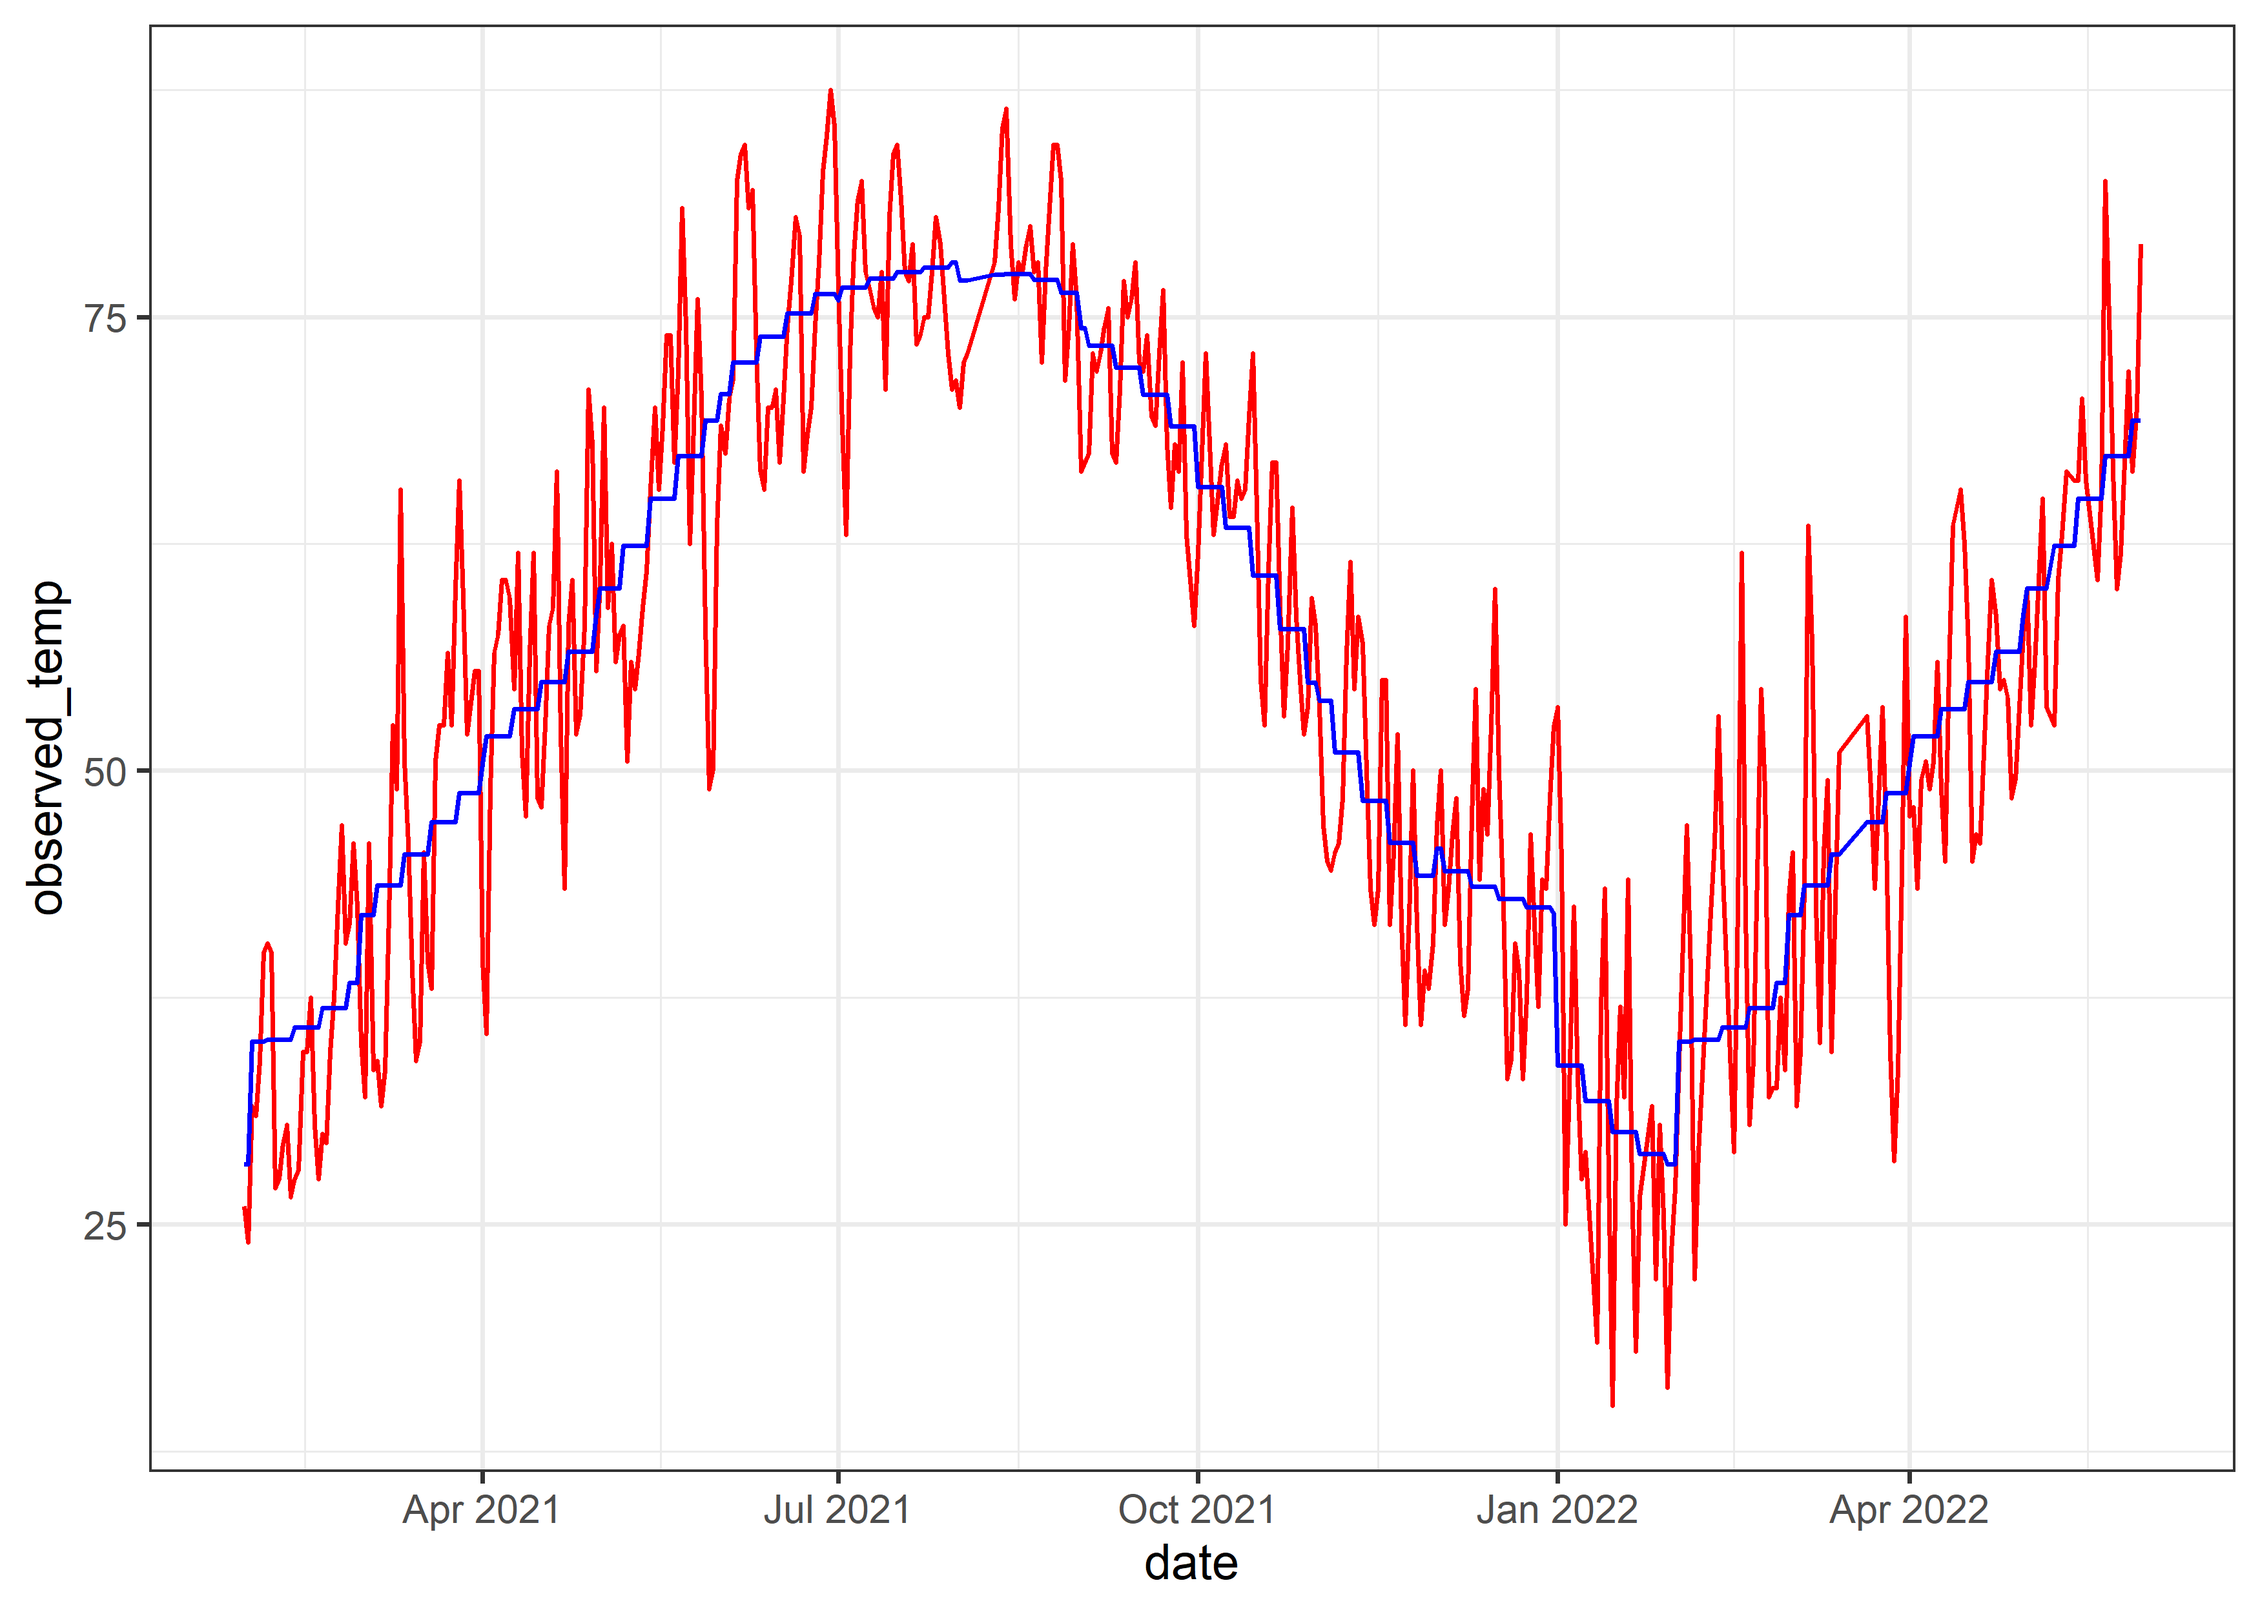
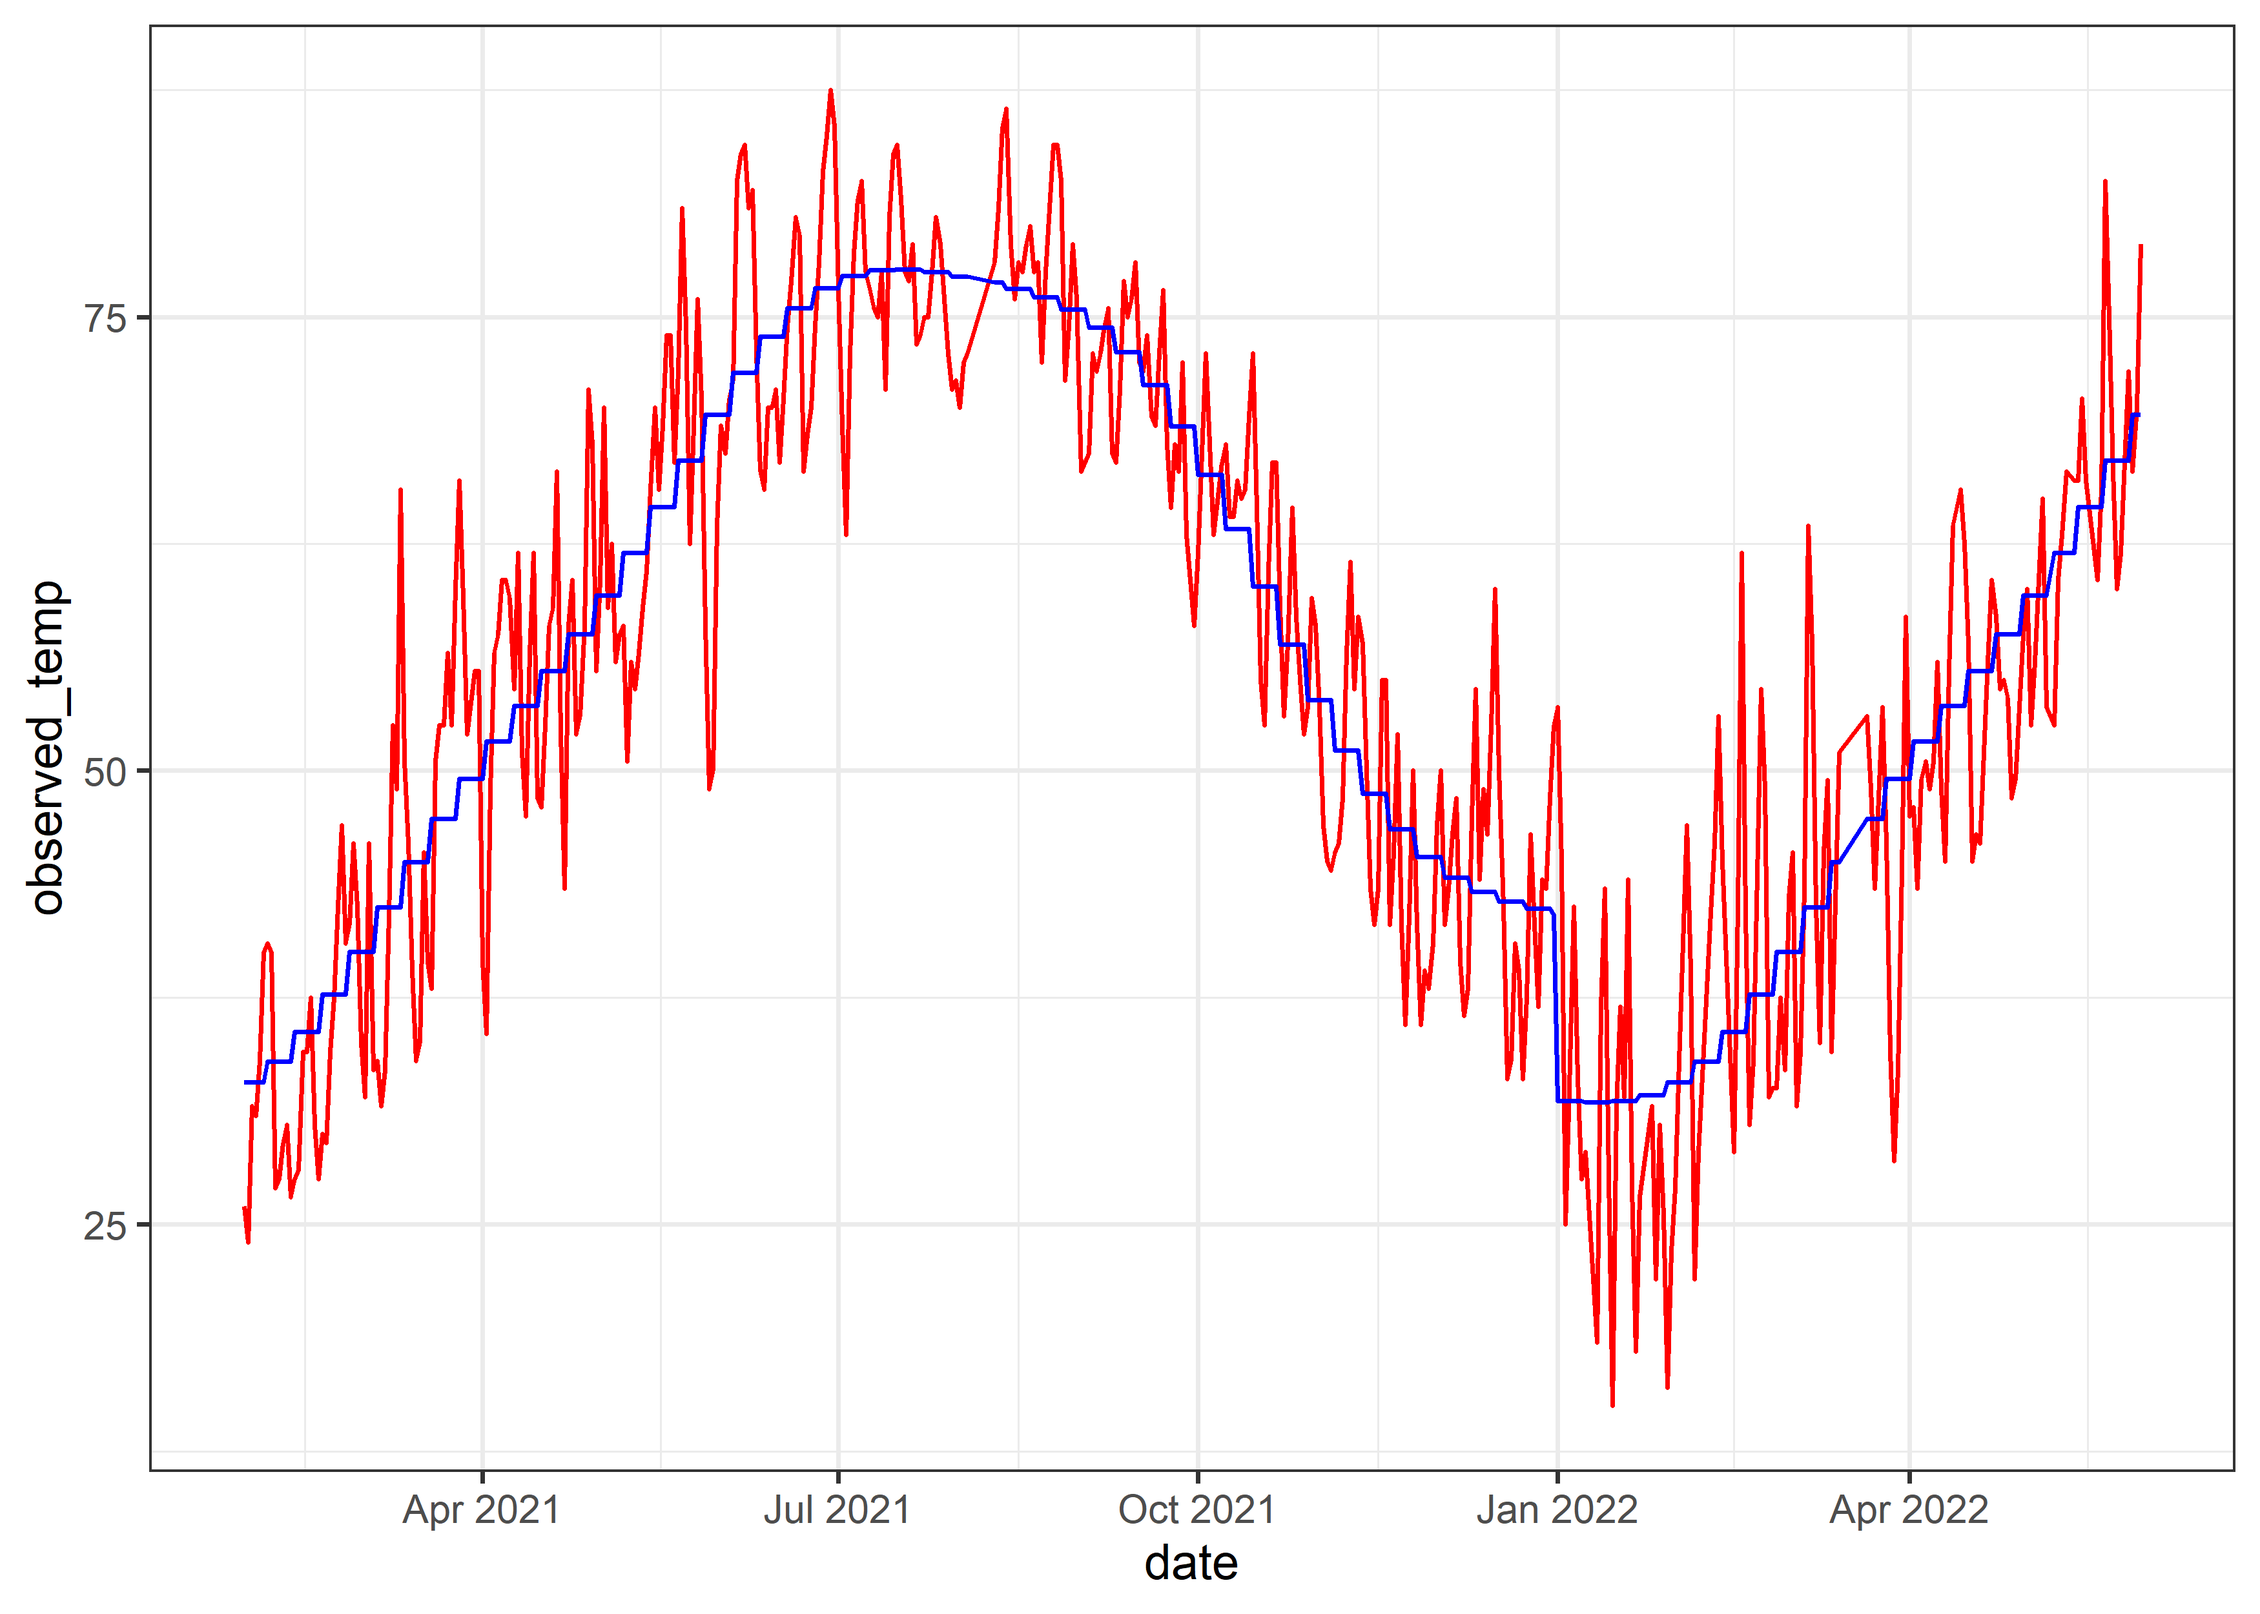
gam model

diff --git a/12-20-22/Weather-Forecasts.md b/12-20-22/Weather-Forecasts.md
@@ -464,12 +464,37 @@ sarima.for(nyctz, 10, 1,1,3)
 
 ``` r
 nycseries <- nycseries %>% 
-  mutate(month = month(date), week = week(date))
+  mutate(week = week(date))
 ```
 
 ``` r
-gam_mod <- mgcv::gam(observed_temp ~ s(month,k = 12) + s(week, k = 52), data = nycseries, method = "REML")
+gam_mod <- mgcv::gam(observed_temp ~ s(week), 
+                     data = nycseries, 
+                     method = "REML")
+summary(gam_mod)
 ```
+
+    ## 
+    ## Family: gaussian 
+    ## Link function: identity 
+    ## 
+    ## Formula:
+    ## observed_temp ~ s(week)
+    ## 
+    ## Parametric coefficients:
+    ##             Estimate Std. Error t value Pr(>|t|)    
+    ## (Intercept)  55.5565     0.3339   166.4   <2e-16 ***
+    ## ---
+    ## Signif. codes:  0 '***' 0.001 '**' 0.01 '*' 0.05 '.' 0.1 ' ' 1
+    ## 
+    ## Approximate significance of smooth terms:
+    ##           edf Ref.df     F p-value    
+    ## s(week) 7.891  8.673 227.8  <2e-16 ***
+    ## ---
+    ## Signif. codes:  0 '***' 0.001 '**' 0.01 '*' 0.05 '.' 0.1 ' ' 1
+    ## 
+    ## R-sq.(adj) =  0.814   Deviance explained = 81.8%
+    ## -REML = 1535.3  Scale est. = 50.272    n = 451
 
 ``` r
 nycseries %>% 
